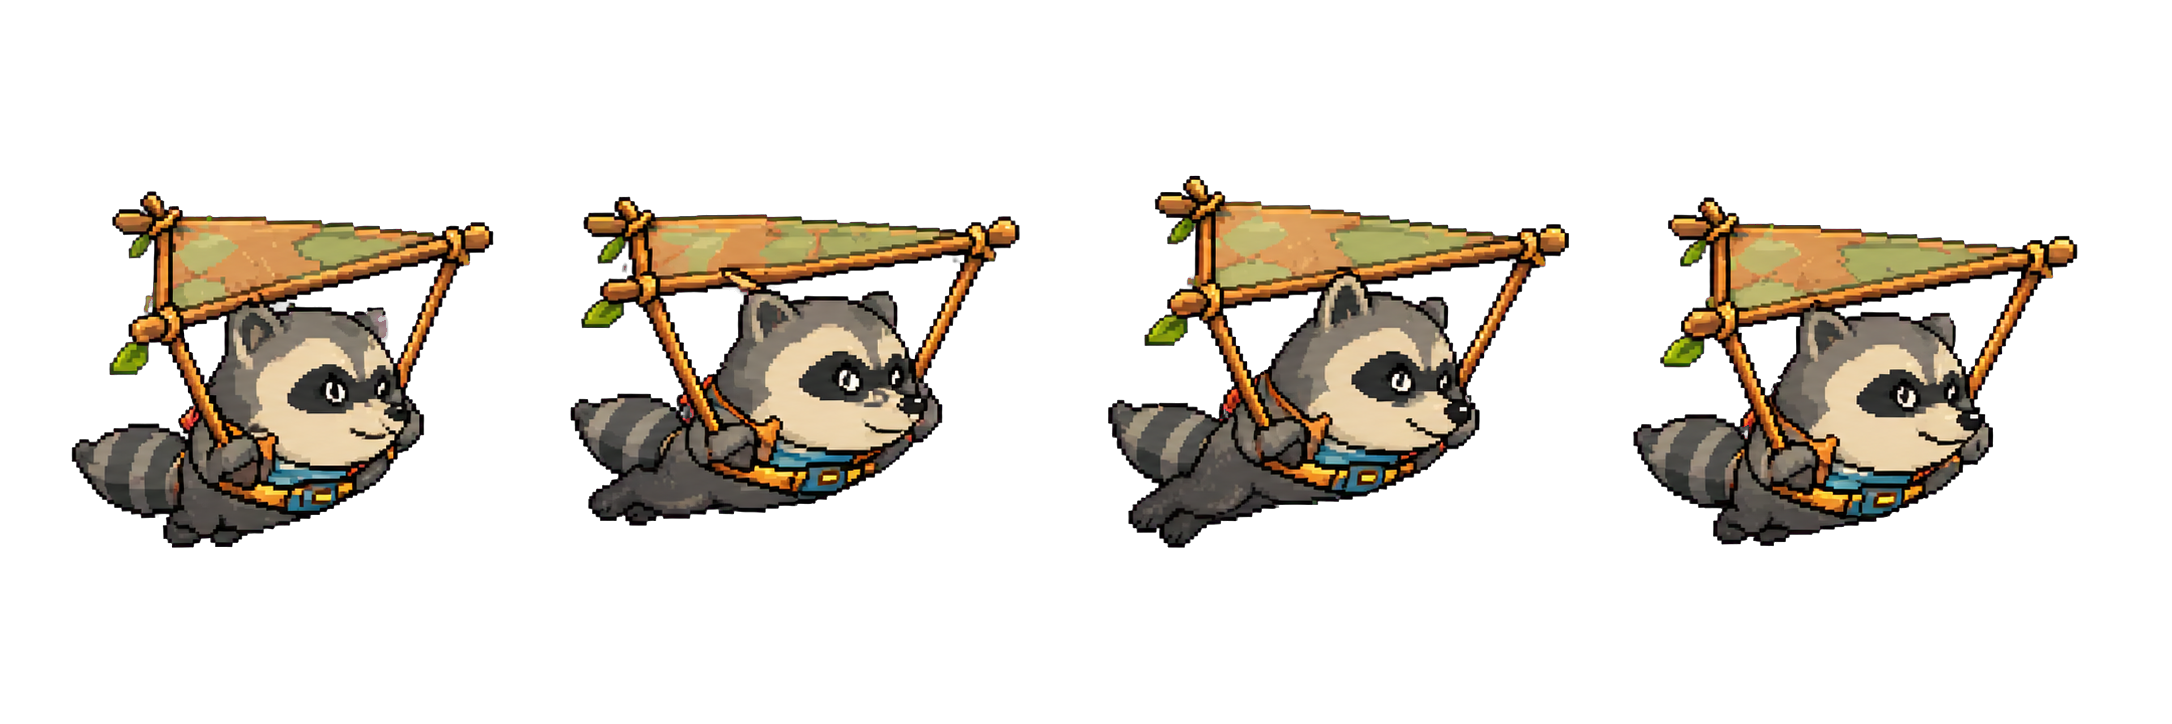
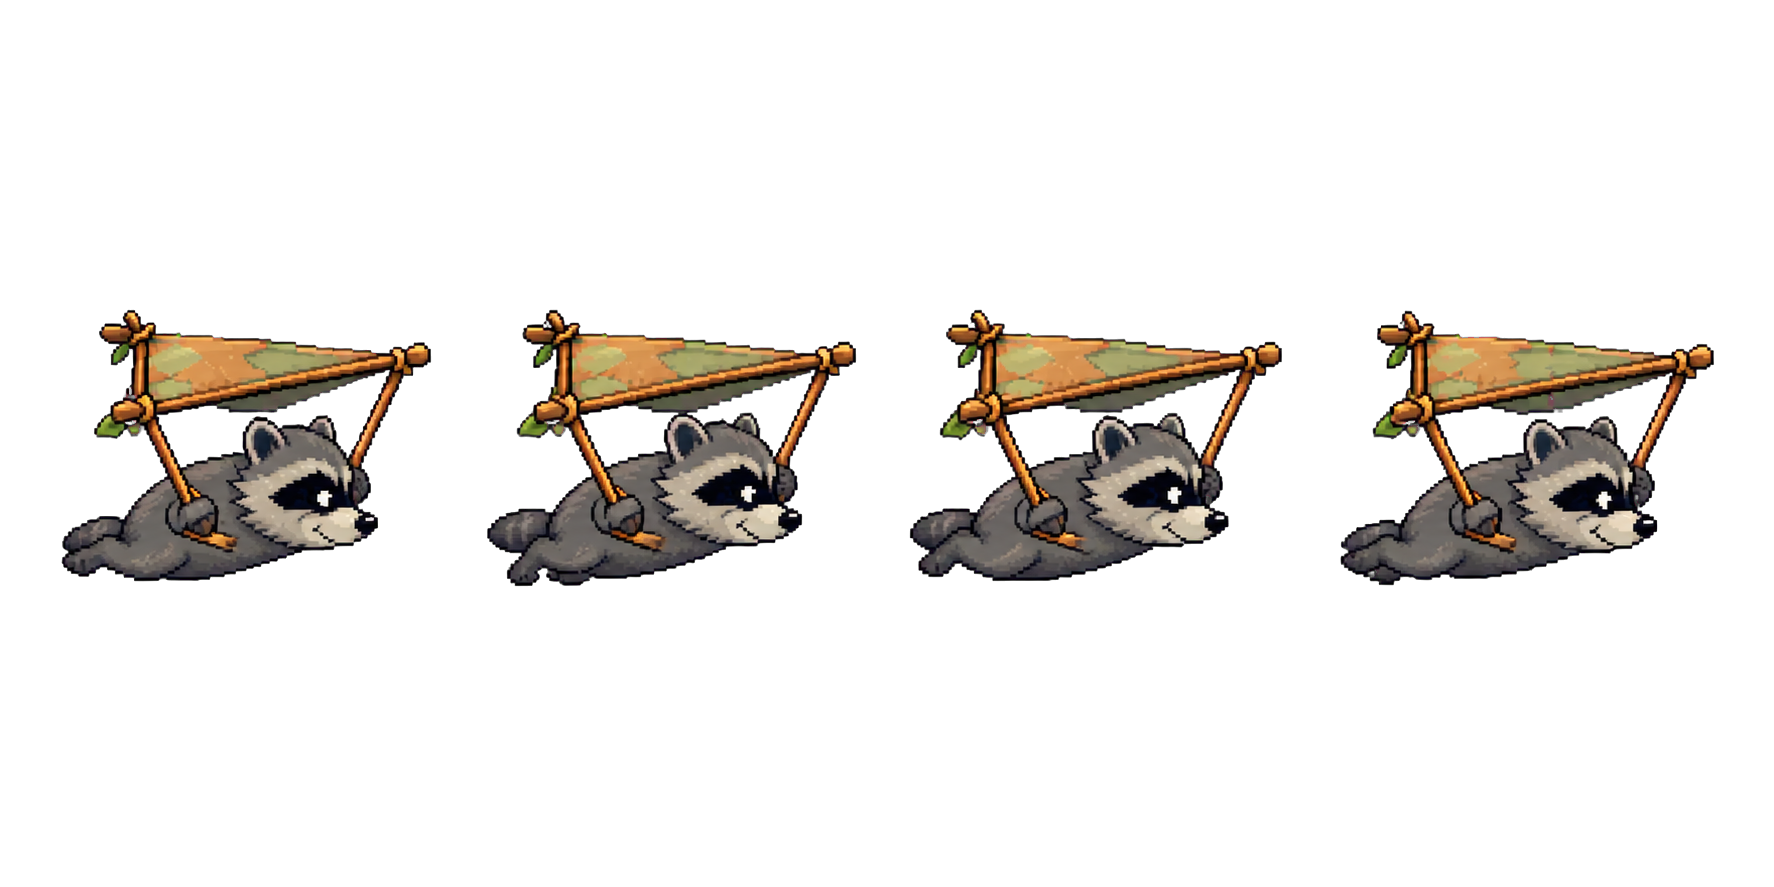
fix: preserve Jimothy glide identity and pit lifecycle

Changed region(s): [[0.031, 0.2735, 0.4961, 0.7597], [0.4961, 0.2431, 0.9921, 0.7597]]

diff --git a/app/trash-dash-game.tsx b/app/trash-dash-game.tsx
@@ -17,10 +17,11 @@ import {
 } from "./music-controller.mjs";
 import { createEnemyPatrol } from "./enemy-surface.mjs";
 import {
+  advanceEndSequence,
   advanceHurtTimer,
+  beginPitFallTransition,
   beginPlayerHurt,
   nextEnemyIntent,
-  presentPitDefeat,
   resolvePitFall,
 } from "./gameplay-animation-state.mjs";
 import {
@@ -1421,34 +1422,20 @@ export function TrashDashGame() {
       return outcome;
     };
 
-    const handlePitFall = (world: World) => {
+    const handlePitFall = (world: World, pit: ReturnType<typeof beginPitFallTransition>) => {
+      if (!pit) return;
       const player = world.player;
-      const profile = getPlayableCharacter(world.selectedCharacterId);
-      const pit = presentPitDefeat({
-        pit: resolvePitFall(world.lives),
-        defeatAnimation: profile.animations.small_defeat,
-      });
       world.lives = pit.lives;
-      transformPlayer(player, false);
-      player.hurtTimer = 0;
-      player.pendingDamage = null;
-      player.attackTimer = 0;
-      player.glider = 0;
-      player.shrinkTimer = 0;
+      transformPlayer(player, pit.player.large);
+      Object.assign(player, pit.player);
       burst(world, player.x + player.w / 2, HEIGHT - 8, "#f6d477", 11);
       tone(100, 0.2, "sawtooth");
 
-      if (pit.outcome === "respawn") respawn(world);
+      if (pit.respawn) respawn(world);
       else {
         // Pit loss is immediate (one paw, no hurt/shrink/respawn), but its
         // locally committed animation must play before changing screens.
-        player.endSequence = "gameover";
-        player.endTimer = pit.duration;
-        player.animationName = pit.animationName;
-        player.animationElapsed = 0;
-        player.vx = 0;
-        player.vy = 0;
-        player.grounded = true;
+        player.endSequence = pit.player.endSequence;
       }
     };
 
@@ -1730,11 +1717,11 @@ export function TrashDashGame() {
       world.messageTimer = Math.max(0, world.messageTimer - dt);
 
       if (player.endSequence) {
-        player.endTimer = Math.max(0, player.endTimer - dt);
-        if (player.endTimer <= 0) {
-          const completedScreen = player.endSequence;
-          player.endSequence = null;
-          changeScreen(completedScreen);
+        const endStep = advanceEndSequence({ sequence: player.endSequence, timer: player.endTimer, dt });
+        player.endSequence = endStep.sequence;
+        player.endTimer = endStep.timer;
+        if (endStep.completedScreen) {
+          changeScreen(endStep.completedScreen);
           pressedRef.current.clear();
           return;
         }
@@ -1823,8 +1810,15 @@ export function TrashDashGame() {
         player.airtime = 0;
       }
 
-      if (player.y > HEIGHT + 120) {
-        handlePitFall(world);
+      const pitFall = beginPitFallTransition({
+        playerY: player.y,
+        viewportHeight: HEIGHT,
+        lives: world.lives,
+        pit: resolvePitFall(world.lives),
+        defeatAnimation: getPlayableCharacter(world.selectedCharacterId).animations.small_defeat,
+      });
+      if (pitFall) {
+        handlePitFall(world, pitFall);
         pressedRef.current.clear();
         return;
       }

diff --git a/.superpowers/sdd/2026-08-09-game-wide-integrity-repair/task-3-report.md b/.superpowers/sdd/2026-08-09-game-wide-integrity-repair/task-3-report.md
@@ -22,6 +22,10 @@ both-facing runtime sequences remain `CANNOT VERIFY`.
   semantic-source manifest, and pit-presentation regressions could not import
   a terminal `small_defeat` sequence. Review also proved the old builder routed
   named land/defeat/victory and `large_glide` through incompatible legacy rows.
+- Round-2 RED: rereview native inspection rejected the first glide rebuild as
+  a dressed, long-ringed-tail substitute rather than Jimothy. The new
+  threshold-to-end-sequence integration regression also failed to import the
+  shared pit/end lifecycle helpers before extraction.
 
 ## GREEN implementation and measurements
 
@@ -49,14 +53,26 @@ both-facing runtime sequences remain `CANNOT VERIFY`.
   Jimothy motion/contact/private atlas: `cd5712057…`, `4589a51e…`, and
   `64d707831…` respectively (Jimothy's three identical atlas copies share the
   final hash).
+- Round-2 replaced only `jimothy-large-glide-source.png` with a targeted
+  built-in image generation using Jimothy's character key as the identity
+  authority and the shipped canopy only as a pose/mechanics reference. Native
+  inspection of all four alpha frames and row 19 confirms the unclothed gray,
+  squat, bob-tail Jimothy rider; no second iteration was required.
+- Round-2 extracted shared threshold and end-sequence transitions used by the
+  runtime. The integration test follows actual threshold → one-paw pit result
+  → selected profile `small_defeat` → local `4 / 6` duration → clamped final
+  frame → delayed gameover, and separately proves non-terminal respawn without
+  queuing defeat or changing checkpoint state.
+- Round-2 repeat-build SHA-256 values matched for the Jimothy private atlas,
[1 lines of base64/hex data omitted]
 
 ## Verification
 
 - RED matrix: `node --test tests/player-animation.test.mjs tests/player-hero-atlas.test.mjs tests/jimothy-player-atlas.test.mjs tests/character-gameplay.test.mjs` — 3 failures (missing shared atlas export and two baseline violations).
-- GREEN focused player, pit-state, and Task 2 visual-contract matrix — 51 passed, 0 failed.
+- GREEN focused player, pit-state, and Task 2 visual-contract matrix — 57 passed, 0 failed.
 - `npm run validate:skills` — passed.
 - `npm run lint` — 0 errors; one pre-existing Next `<img>` performance warning.
-- `npm test` — 253 passed, 0 failed; production build completed.
+- `npm test` — 256 passed, 0 failed; production build completed.
 - Static contact-sheet QA: inspected both regenerated sheets at native size;
   complete silhouettes stay inset and share the baseline. Both-facing behavior
   is covered by the destination-center flip contract and regression.
@@ -82,6 +98,8 @@ both-facing runtime sequences remain `CANNOT VERIFY`.
 | Keyboard-driven actions and repeated both-facing runtime sequences | CANNOT VERIFY — keyboard action automation unavailable |
 | Jimothy source-state contact-sheet repair | PASS — authored land/defeat/victory/glide rows are distinct, alpha-clean, baseline-normalized, and visually inspected |
 | Terminal pit-defeat state/timer | PASS — pure transition tests prove a four-frame `small_defeat` before gameover while preserving one-paw instant death |
+| Jimothy large-glide identity | PASS — native source and rebuilt row-19 inspection; gray bob-tail rider and no orange/blue outfit contamination in guarded rider cores |
+| Pit threshold through delayed gameover | PASS — shared runtime lifecycle integration test covers terminal/non-terminal branches and final-frame clamp |
 
 `docs/visual-audit.md` narrows VIS-005 accordingly and retains the complete
 runtime route/state matrix for a browser-equipped follow-up.

diff --git a/docs/visual-audit.md b/docs/visual-audit.md
@@ -420,6 +420,19 @@ Verification:
   hurt, shrink, or respawn, then commit the selected profile's `small_defeat`
   for its four-frame local duration before changing to game over. Pure state
   tests cover both terminal and non-terminal outcomes.
+- Round-2 glide identity repair: replaced only Jimothy's `large_glide` source
+  with a freshly generated, chroma-removed four-frame row using the Jimothy
+  key as identity authority and the existing glider strip only for canopy
+  mechanics. Native and generated-row review shows the unclothed gray,
+  rounded, bob-tail rider in all four cells. Narrow pixel guards reject
+  saturated orange/blue outfit contamination in the rider core and constrain
+  the four coherent compact glide silhouettes; generic atlas checks retain
+  population, inset, and shared-baseline coverage.
+- Round-2 pit lifecycle repair: the live fall threshold, pit result, and end
+  timer now use shared pure transitions. Integration coverage proves terminal
+  Jimothy loss selects `small_defeat` for `4 / 6` seconds through its clamped
+  final frame before gameover; a non-terminal crossing respawns with no defeat
+  sequence and preserves the checkpoint.
 - Automated verification: the shared reachable-state contract covers all small
   and large states, atlas bounds, one-shot clamping, maximum envelopes, and
   both-facing anchors. The focused player plus visual-contract/asset/inventory
